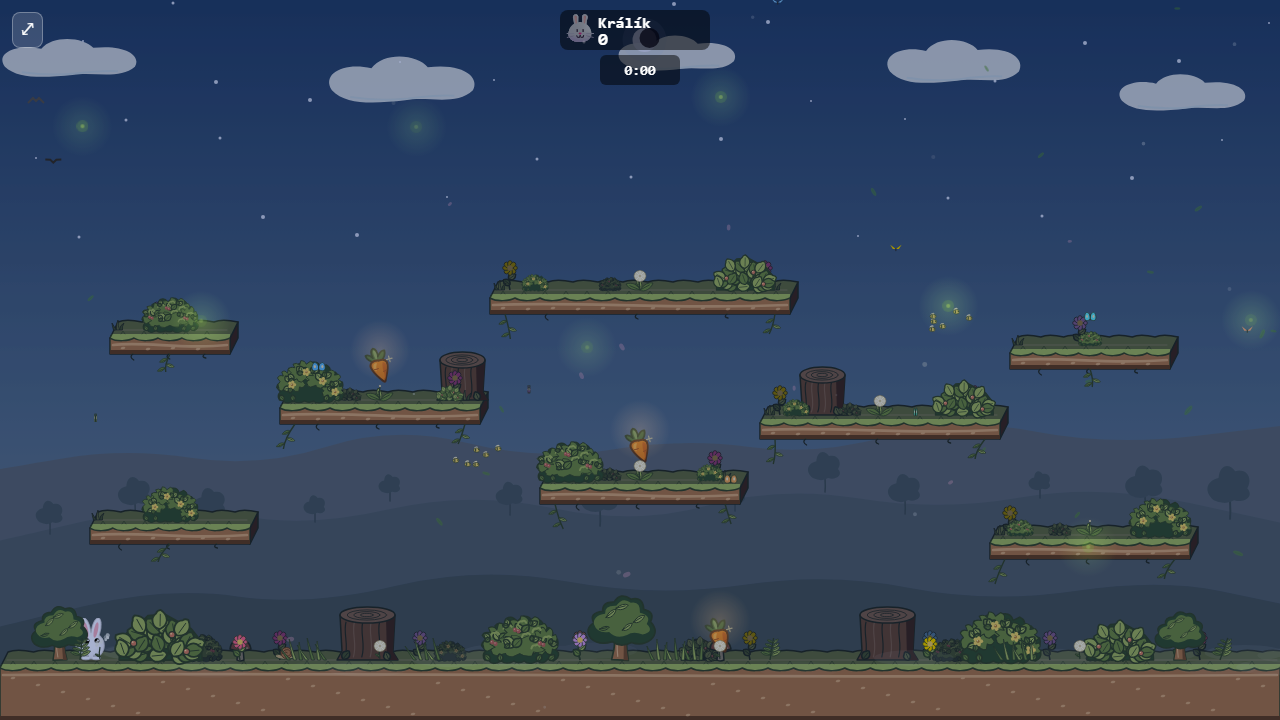
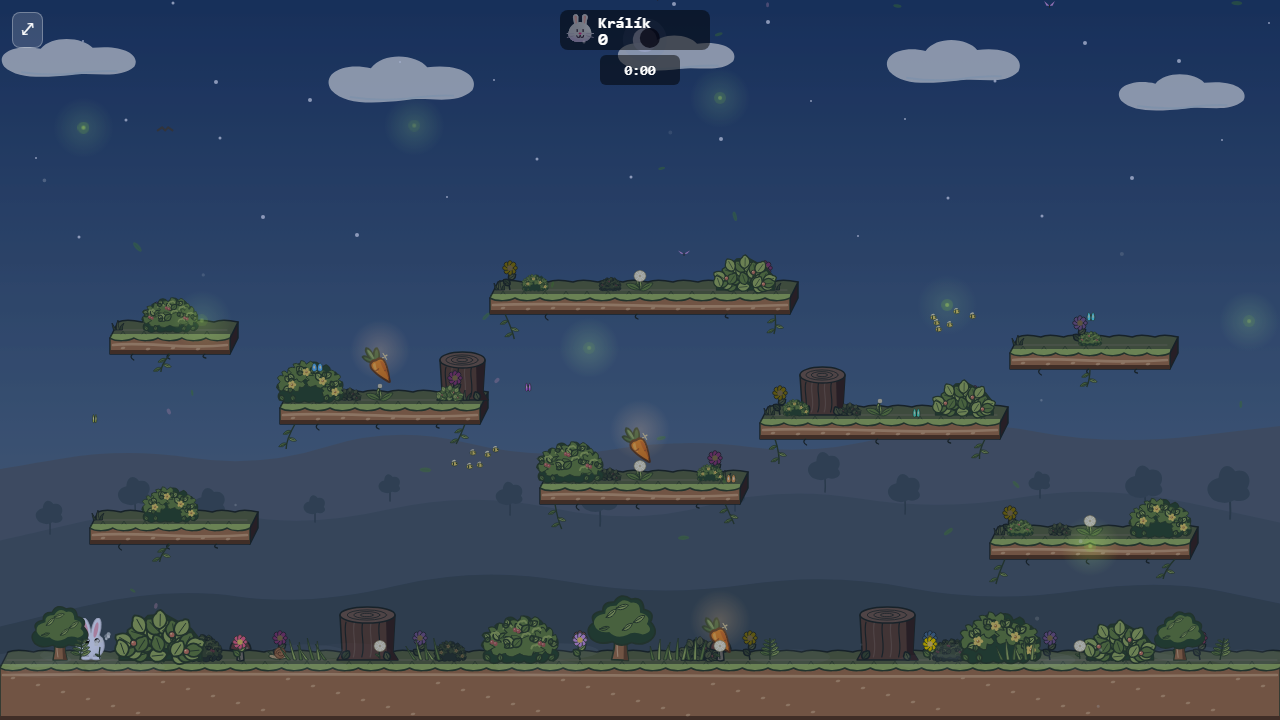
Select long-root carrot pickup design

diff --git a/src/engine/rendering/collectibles.ts b/src/engine/rendering/collectibles.ts
@@ -4,7 +4,7 @@ import type { ThemeConfig } from '../themes/types';
 import { CARROT_SIZE, SPRING_SIZE, HAZARD_GROW_TIME } from '../constants';
 
 const _hazardAnim = { growScale: 1, fadeAlpha: 1 };
-const CARROT_ART = { tilt: -0.28, width: 0.82, height: 0.82 } as const;
+const CARROT_ART = { tilt: -0.55, width: 0.72, height: 0.96 } as const;
 function calcHazardAnim(growTimer: number, life: number) {
   _hazardAnim.growScale = growTimer > 0 ? 1 - (growTimer / HAZARD_GROW_TIME) : 1;
   _hazardAnim.fadeAlpha = life < 2 ? life / 2 : 1;

diff --git a/docs/mockups/carrot-pickup/README.md b/docs/mockups/carrot-pickup/README.md
@@ -1,6 +1,6 @@
 # Storybook carrot pickup studies
 
-The shared carrot pickup now reads as a small rooted vegetable instead of a sideways orange oval. Its broader shoulders taper to a slightly uneven tip. Three connected leaves, a dark ink edge, two warm color planes, and sparse root creases follow the Meadow prop language. The bob, brief spawn ring, and single glint still distinguish it from static foliage. After the upright first pass, the four studies below vary the lean, body proportions, and pointing direction. **Gentle lean is only the provisional in-game setting while a direction is chosen.**
+The shared carrot pickup now reads as a small rooted vegetable instead of a sideways orange oval. Its broader shoulders taper to a slightly uneven tip. Three connected leaves, a dark ink edge, two warm color planes, and sparse root creases follow the Meadow prop language. The bob, brief spawn ring, and single glint still distinguish it from static foliage. After the upright first pass, the four studies below vary the lean, body proportions, and pointing direction. **Long root (C) is the selected in-game design.**
 
 ## Angled variations
 
@@ -10,14 +10,14 @@ Each crop comes from the actual Meadow renderer at game scale, not a full-size c
 | --- | --- | --- | --- |
 | **A · Gentle lean** | <img src="gentle-lean-detail.png" width="200" alt="Gently angled carrot"> | Small tilt, balanced root and leaf mass. Closest to the upright redesign. | [Day](gentle-lean-day.png) · [Night](gentle-lean-night.png) |
 | **B · Chunky diagonal** | <img src="chunky-diagonal-detail.png" width="200" alt="Plump carrot angled down to the right"> | Broader shoulders, shorter root, and a clearer diagonal. Feels playful and substantial. | [Day](chunky-diagonal-day.png) · [Night](chunky-diagonal-night.png) |
-| **C · Long root** | <img src="long-root-detail.png" width="200" alt="Slender carrot angled down to the right"> | A narrower, longer taper with the most directional movement. Check whether the tip becomes too fine at small size. | [Day](long-root-day.png) · [Night](long-root-night.png) |
+| **C · Long root — selected** | <img src="long-root-detail.png" width="200" alt="Slender carrot angled down to the right"> | A narrower, longer taper with a clear diagonal. Its root and attached leaves remain legible in the game-scale captures. | [Day](long-root-day.png) · [Night](long-root-night.png) |
 | **D · Reverse lean** | <img src="reverse-lean-detail.png" width="200" alt="Carrot leaning in the opposite direction"> | Similar scale to A, but the leaves point right and the tip points left. Tests orientation separately from proportions. | [Day](reverse-lean-day.png) · [Night](reverse-lean-night.png) |
 
-The script in [`captureVariants.mjs`](captureVariants.mjs) temporarily applies each geometry setting, captures it in the game, then restores the source. The studies are comparison artifacts; only the provisional A setting is used by the current build.
+The script in [`captureVariants.mjs`](captureVariants.mjs) temporarily applies each geometry setting, captures it in the game, then restores the source. The other studies remain as comparisons; the current build uses C.
 
 ## Before and after
 
-| Current pickup | Storybook redesign |
+| Original pickup | Selected long-root design |
 | --- | --- |
 | ![Current carrot in Meadow by day](before-day.png) | ![Redesigned carrot in Meadow by day](after-day.png) |
 | ![Current carrot in Meadow at night](before-night.png) | ![Redesigned carrot in Meadow at night](after-night.png) |

diff --git a/.claude/skills/visual-style/SKILL.md b/.claude/skills/visual-style/SKILL.md
@@ -30,7 +30,7 @@ For a new arena, choose a setting-specific palette and landmarks, then apply the
 
 ### Pickups must read as objects in motion
 
-Use the [carrot pickup comparison and angle studies](../../../docs/mockups/carrot-pickup/README.md) when drawing small collectibles. At match scale, the carrot reads through broad orange shoulders, a tapered root, and leaves visibly attached to its crown; small stripes alone did not make the older sideways oval feel like a vegetable. A fully upright root looked too much like a planted decoration, so compare gentle, chunky, and longer diagonal shapes inside the running arena before choosing a tilt. A dark continuous edge and restrained light/dark planes separate it from nearby flowers and terrain. Keep the pickup's short spawn cue and gentle bob distinct from the static scenery, but avoid a blurred halo or a large effect that overwhelms the 32 px characters. Review the same pickup over different arena palettes and at night. Its artwork, particle cues, and visual bounds should support the existing collision target and foreground cover order; changing the art must not silently change collection behavior.
+Use the [carrot pickup comparison and angle studies](../../../docs/mockups/carrot-pickup/README.md) when drawing small collectibles. At match scale, the carrot reads through broad orange shoulders, a tapered root, and leaves visibly attached to its crown; small stripes alone did not make the older sideways oval feel like a vegetable. A fully upright root looked too much like a planted decoration, so compare gentle, chunky, and longer diagonal shapes inside the running arena before choosing a tilt. The selected long-root version uses a pronounced diagonal and an extended, narrow taper while retaining enough orange mass to read at game scale. A dark continuous edge and restrained light/dark planes separate it from nearby flowers and terrain. Keep the pickup's short spawn cue and gentle bob distinct from the static scenery, but avoid a blurred halo or a large effect that overwhelms the 32 px characters. Review the same pickup over different arena palettes and at night. Its artwork, particle cues, and visual bounds should support the existing collision target and foreground cover order; changing the art must not silently change collection behavior.
 
 ## Backgrounds: contrast with characters
 
